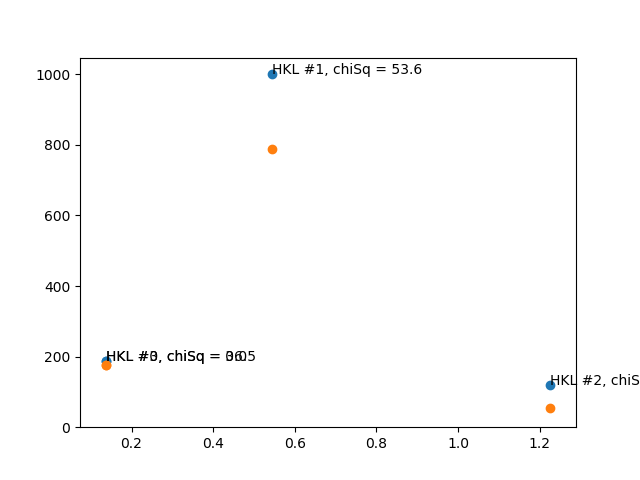
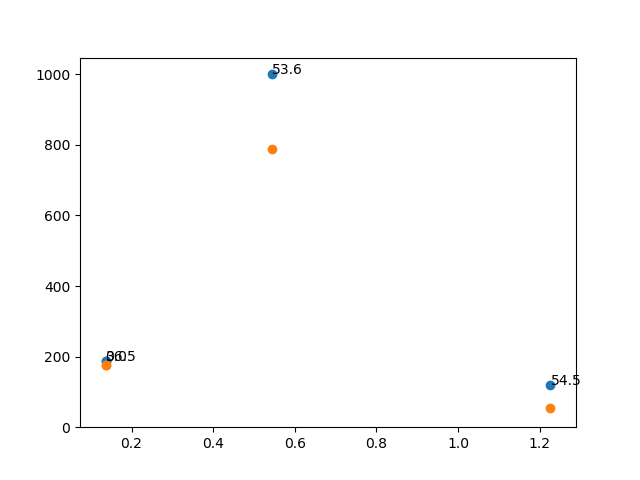
Updated epGreedyBumpsTest.py

Changed region(s): [[0.4062, 0.125, 0.6562, 0.1562], [0.1562, 0.7188, 0.4062, 0.75], [0.8438, 0.7812, 1.0, 0.8125]]

diff --git a/hklgen/examples/sxtal/epGreedy/epGreedyBumpsTest.py b/hklgen/examples/sxtal/epGreedy/epGreedyBumpsTest.py
@@ -219,7 +219,7 @@ def test_algorithm(agent, actions, num_sims, horizon, numParameters):
 	print(x1)
 	N = 10
 #	data = np.random.random((N, 4))
-	labels = [str("HKL #" + str(i) + ", chiSq = " + str(round(chiSqs[i],1))) for i in range(len(chiSqs))]
+	labels = [str(round(chiSqs[i],1)) for i in range(len(chiSqs))]
 
 #	plt.subplots_adjust(bottom = 0.1)
 #	plt.scatter(
